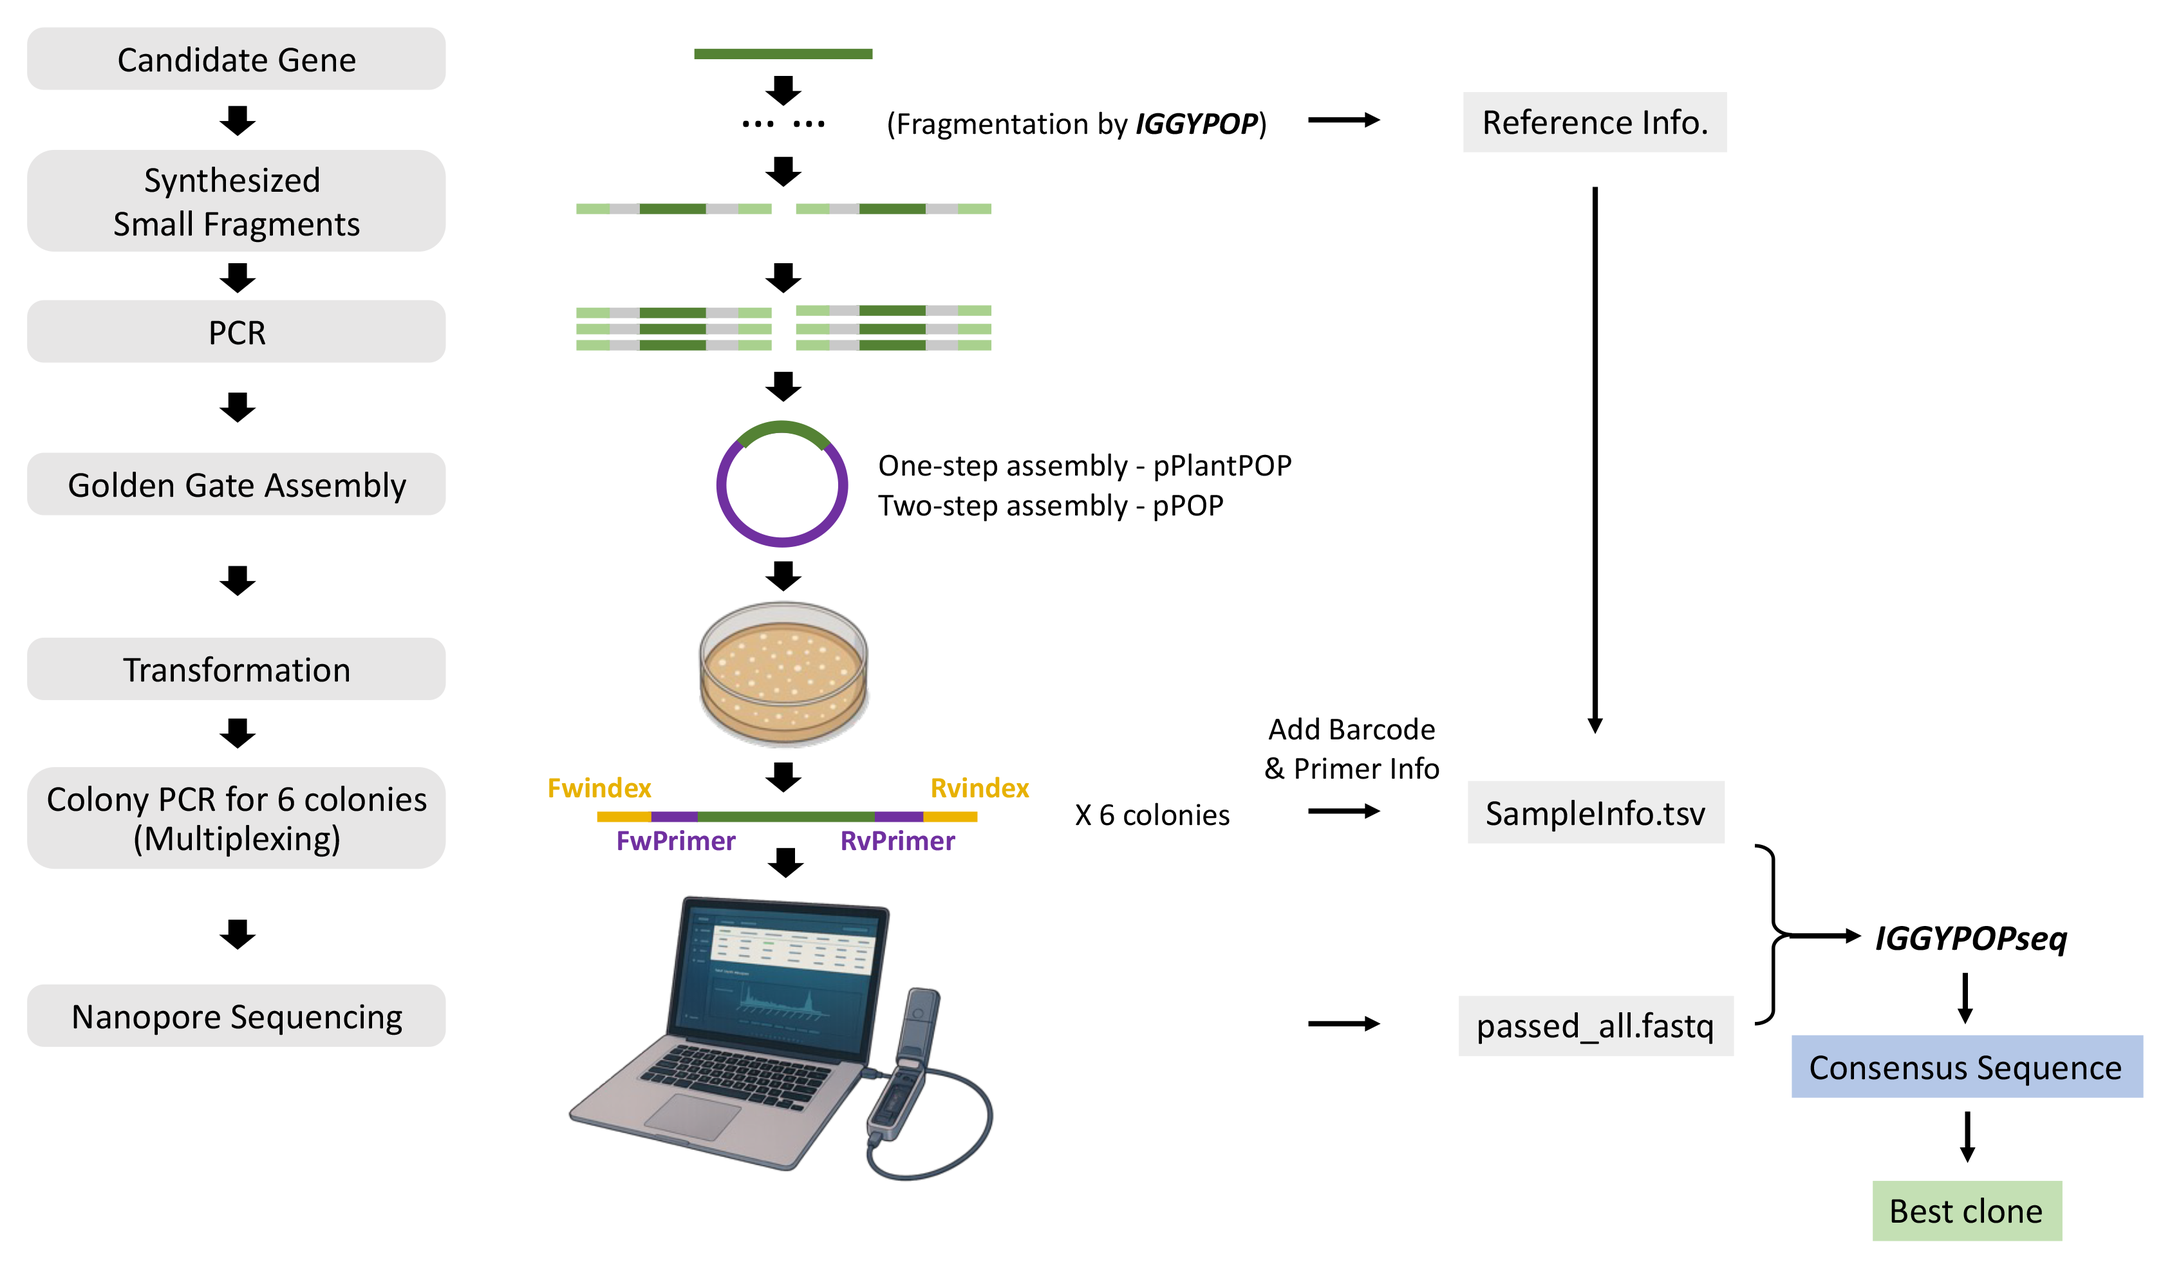
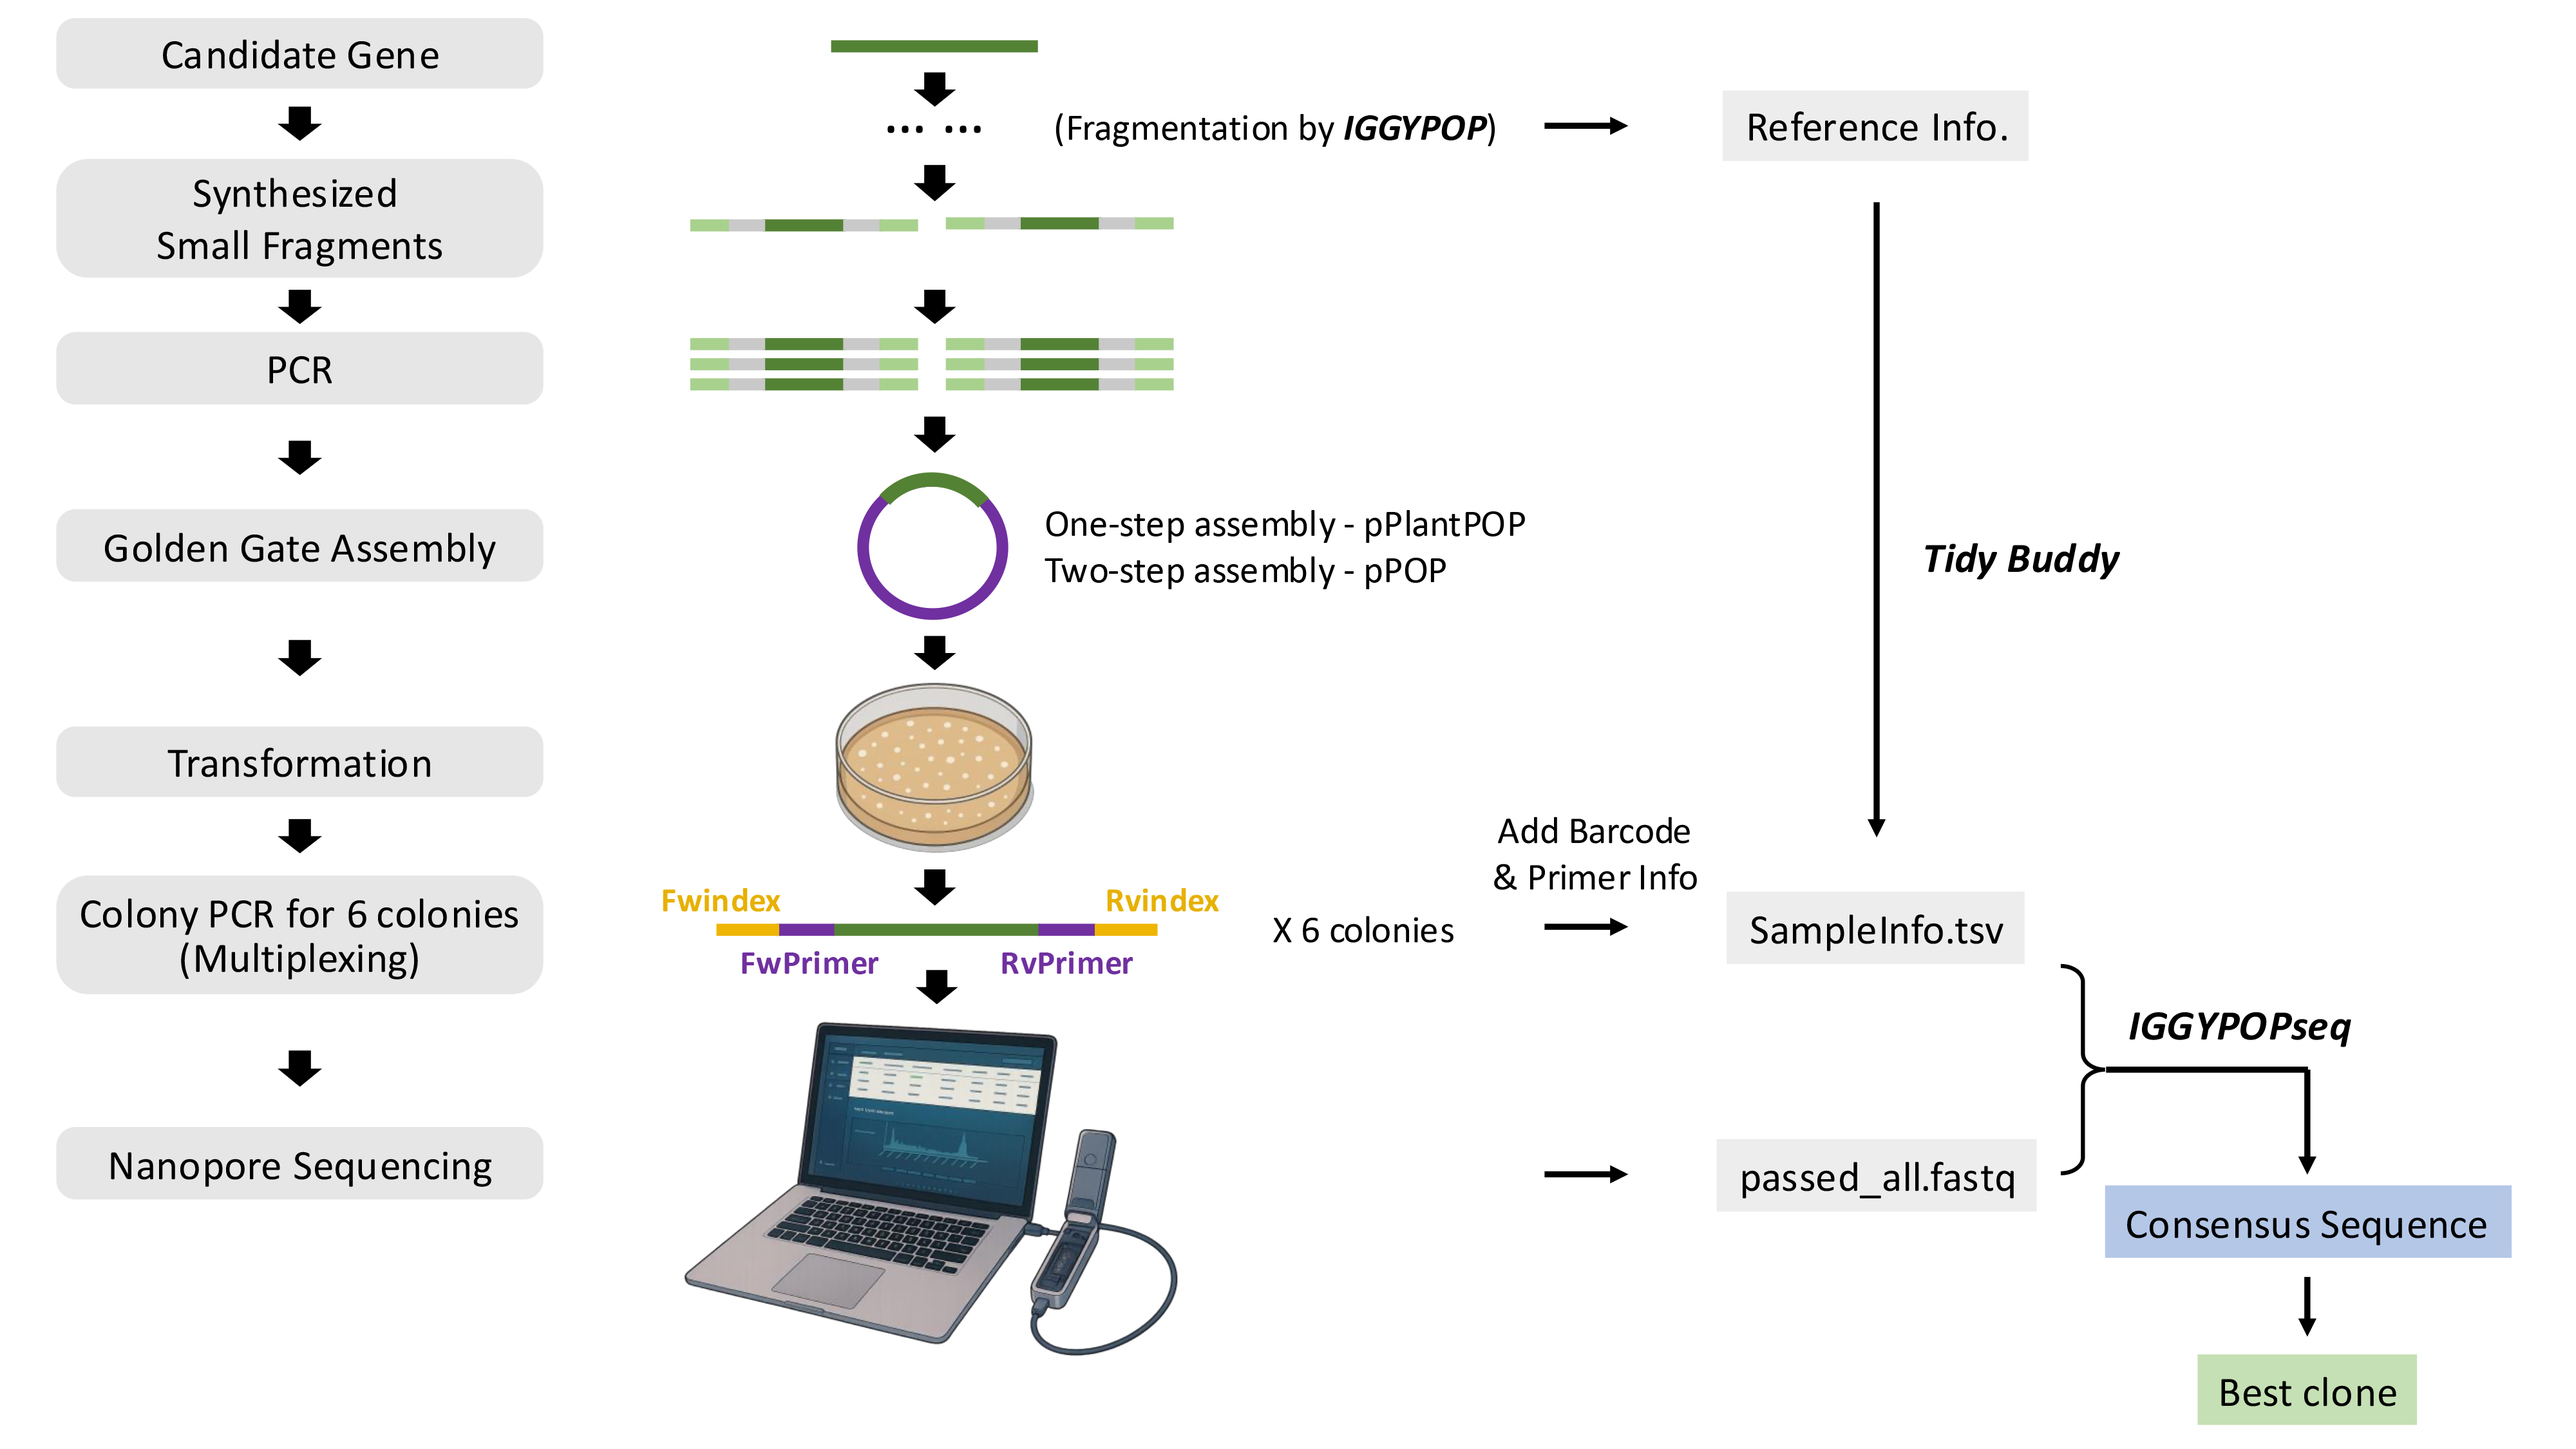
Update the README.

diff --git a/README.md b/README.md
@@ -1,4 +1,4 @@
-# Construct Validation for IGGYPOP
+# Construct Validation for IGGYPOPseq
 We established a pipeline that performs comprehensive analysis for Nanopore sequencing data, designed to generate and validate the consensus sequences for constructs created using [IGGYPOP](https://github.com/cutlersr/iggypop) (indexed golden gate gene assembly from PCR amplified oligonucleotide pools). The pipeline identifies the best clone for each construct and provides detailed summaries at every step of the process.  
 
 ## Table of Content
@@ -326,7 +326,7 @@ This project is licensed under the GNU General Public License, version 3 (GPLv3)
 
 ## Citation
 
-*Dvir G, Xing Z, Beldman I, Rivera A, Wheeldon I, Cutler SR. Synthesis of large single-transcript pathways from oligonucleotide pools: design of STARBURST, an autobioluminescent reporter (manuscript in preparation)*  
+*Dvir G, Xing Z, Beldman I, Rivera A, Wheeldon I, Cutler SR. (2025) [Synthesis of large single-transcript pathways from oligonucleotide pools: Design of STARBURST, an autobioluminescent reporter](https://www.pnas.org/doi/10.1073/pnas.2508109122). Proc. Natl. Acad. Sci. U. S. A. 122, e2508109122.*  
 
 ## References
 
